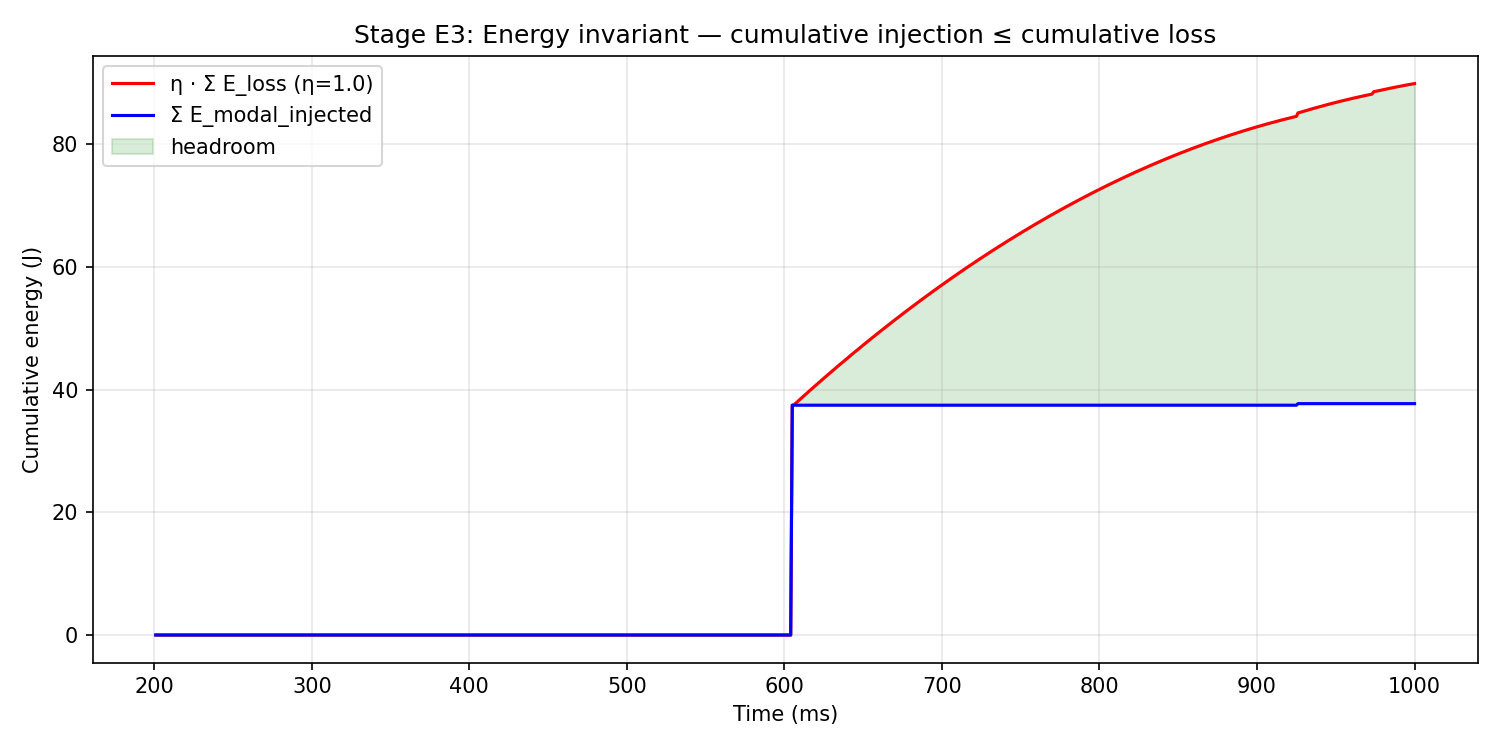
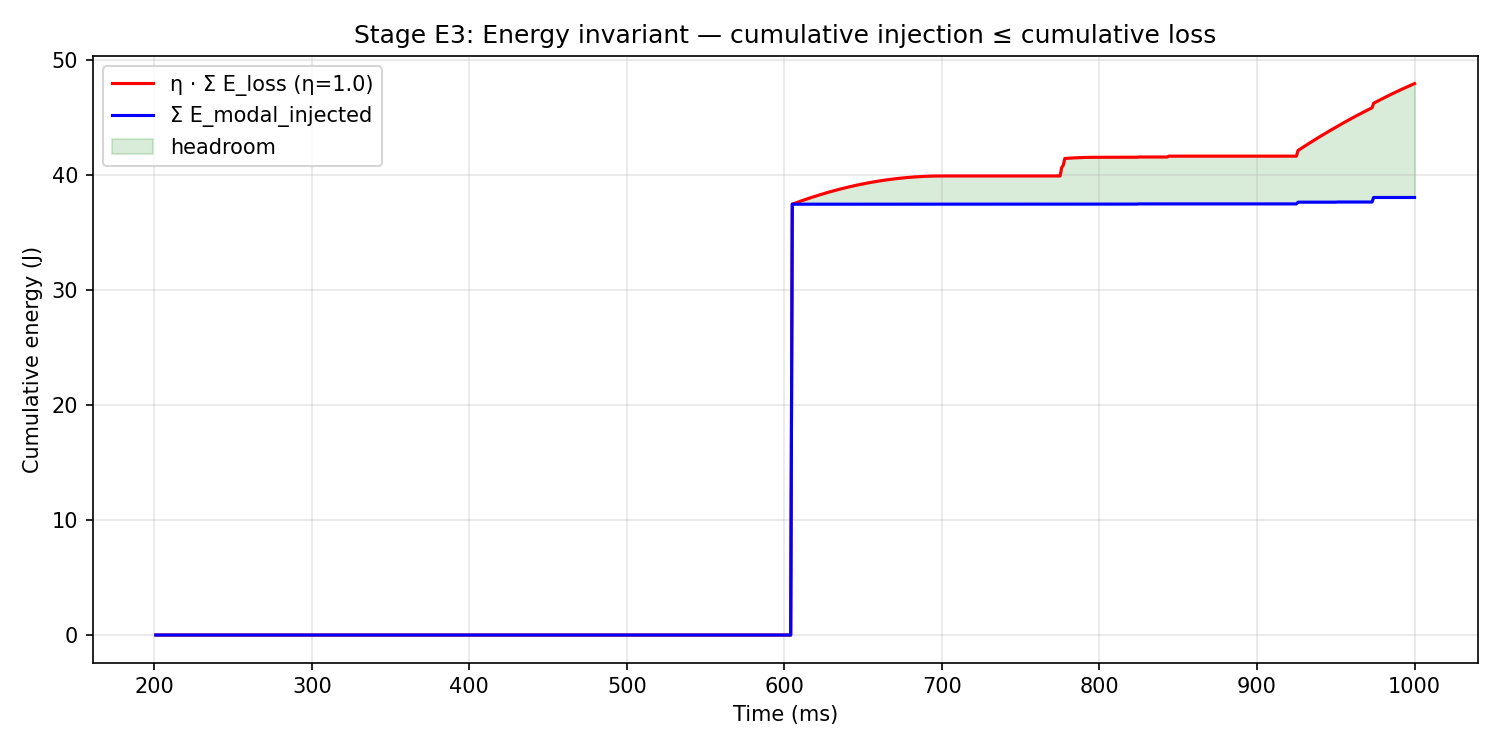
stageE3: fix pot bounce — exclude impacting body from distant response
The passive coupler's persistent modal state was applying DCR velocity
corrections to the impacting body itself (the pot), causing it to bounce
back higher than its drop height. Two fixes:

1. Exclude bodies involved in new impacts from resting contact responses
   (they are at the impact site, not "distant" resting contacts)
2. When no new impacts occur, step the modal stepper for free decay but
   do not produce DCR velocity corrections (matches Stage 5 behavior)

Before: pot bounce ratio = 1.27 (energy violation)
After:  pot bounce ratio = 0.22 (matches original DCR's 0.20)

diff --git a/dcr/dcr/passive_dcr.py b/dcr/dcr/passive_dcr.py
@@ -91,6 +91,10 @@ class PassiveDCRCoupler:
         # --- Identify new and resting contacts on the elastic body ---
         new_contacts_data: list[tuple[Contact, int]] = []  # (contact, ci)
         resting_contacts: list[Contact] = []
+        # Track which bodies are involved in new impacts so we can exclude
+        # them from distant response — they are at the impact site, not
+        # "distant" resting contacts (matches original DCR Stage 5 intent).
+        impacting_body_ids: set[int] = set()
 
         for ci, contact in enumerate(contacts):
             if contact.body_a != self.elastic_body_idx and \
@@ -98,8 +102,19 @@ class PassiveDCRCoupler:
                 continue
             if contact.is_new:
                 new_contacts_data.append((contact, ci))
+                other = contact.body_a if contact.body_b == self.elastic_body_idx \
+                    else contact.body_b
+                impacting_body_ids.add(other)
             else:
                 resting_contacts.append(contact)
+
+        # Filter resting contacts: exclude bodies that caused new impacts
+        # this step. They are at the impact site, not distant.
+        resting_contacts = [
+            c for c in resting_contacts
+            if (c.body_a if c.body_b == self.elastic_body_idx else c.body_b)
+            not in impacting_body_ids
+        ]
 
         # --- Project new contact impulses → s_total (E1, foundation §4, §8) ---
         kicks: list[NDArray[np.float64]] = []
@@ -125,15 +140,16 @@ class PassiveDCRCoupler:
             kicks.append(s_c)
 
         if not kicks:
-            # No new impulses — still step the homogeneous stepper for decay.
+            # No new impulses — step the homogeneous stepper for free decay,
+            # but do NOT produce distant responses (matches Stage 5 behavior:
+            # no new impact → no DCR velocity corrections).
             n_substeps = max(1, int(np.ceil(h / self._stepper.T)))
             self.last_alpha = 0.0
             self.last_E_modal_pre_kick = modal_energy(
                 self._stepper.q, self._stepper.qdot, omega)
             self.last_E_modal_post_kick = self.last_E_modal_pre_kick
-            q_history = self._stepper.step_n(n_substeps)
-            return self._compute_distant_response(
-                resting_contacts, q_history, h)
+            self._stepper.step_n(n_substeps)
+            return {}
 
         s_total = aggregate_kicks(kicks)
 